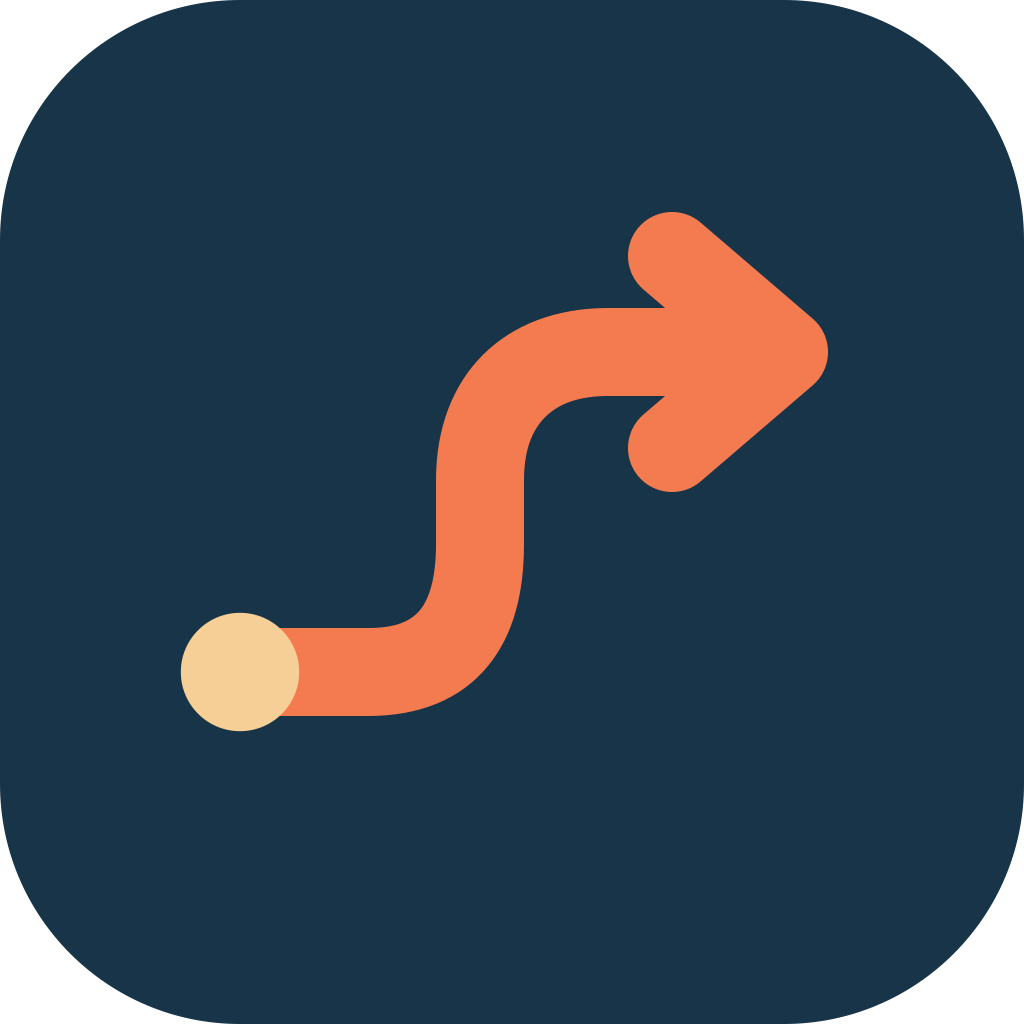
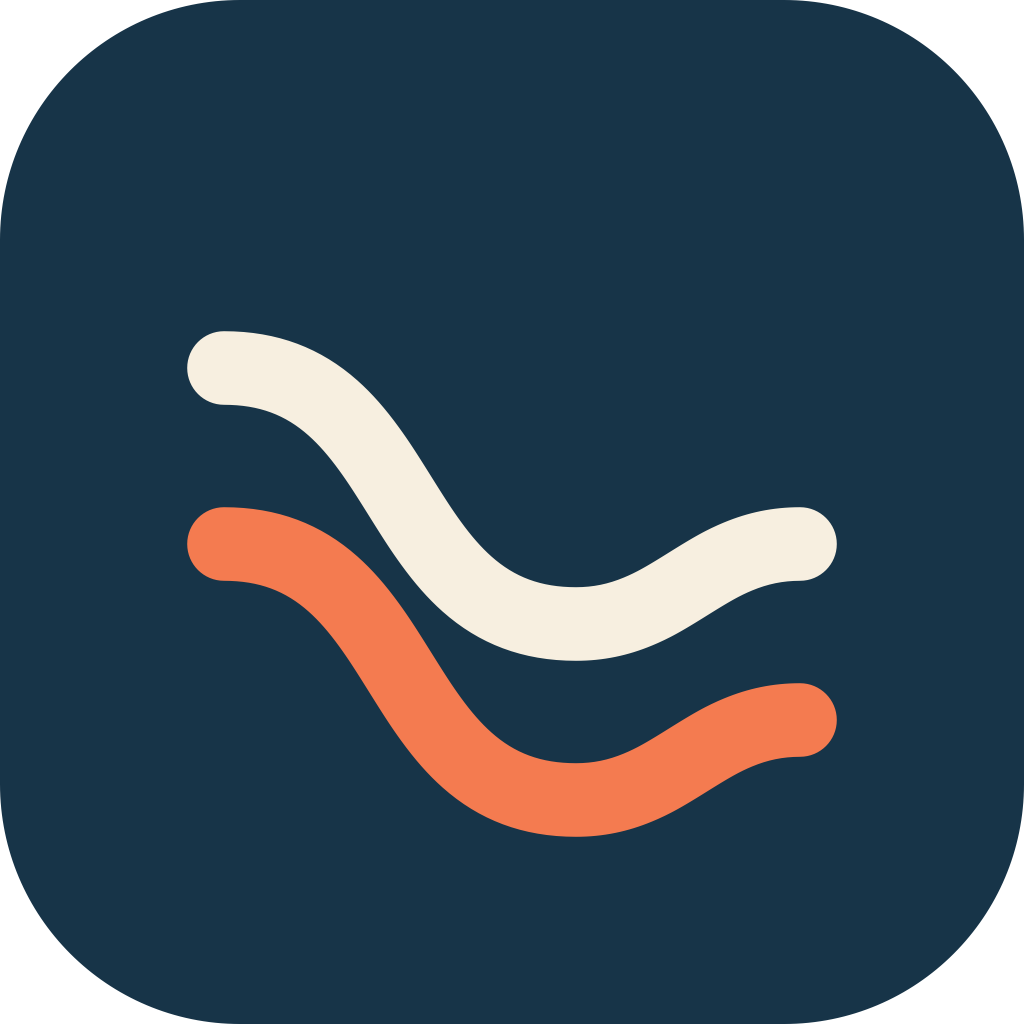
Update Site source

Changed region(s): [[0.1562, 0.1875, 0.8438, 0.8438]]

diff --git a/dist/index.html b/dist/index.html
@@ -1,9 +1,9 @@
 <!doctype html>
 <html lang="zh-CN">
-<head><meta charset="UTF-8"><meta name="viewport" content="width=device-width,initial-scale=1"><meta name="theme-color" content="#f4f3ef"><meta name="description" content="给流程图加上流动的箭头、光点和虚线，在浏览器里导出循环 GIF。"><title>Lineflow · 让连线流动起来</title><link rel="icon" type="image/svg+xml" href="./assets/lineflow-mark.svg"><link rel="stylesheet" href="./style.css"></head>
+<head><meta charset="UTF-8"><meta name="viewport" content="width=device-width,initial-scale=1"><meta name="theme-color" content="#f4f3ef"><meta name="description" content="给流程图加上流动的箭头、光点和虚线，在浏览器里导出循环 GIF。"><title>Lineflow · 让连线流动起来</title><link rel="icon" type="image/svg+xml" href="./assets/lineflow-mark-v2.svg"><link rel="stylesheet" href="./style.css"></head>
 <body>
 <header class="topbar">
-  <a class="brand" href="./" aria-label="Lineflow 首页"><img class="brand-icon" src="./assets/lineflow-mark.svg" width="34" height="34" alt="">lineflow<span class="brand-label">动线工作室</span></a>
+  <a class="brand" href="./" aria-label="Lineflow 首页"><img class="brand-icon" src="./assets/lineflow-mark-v2.svg" width="34" height="34" alt="">lineflow<span class="brand-label">动线工作室</span></a>
   <div class="project-meta"><input id="projectName" aria-label="项目名称" value="Agent 工作流"><span id="saveStatus"><i></i> 已保存在此浏览器</span></div>
   <div class="header-actions"><button id="saveProject" class="quiet">保存工程</button><button id="openProject" class="quiet">打开工程</button><button id="exportTop" class="primary">导出 GIF <span>↗</span></button></div>
 </header>
@@ -57,7 +57,7 @@
 </aside>
 </div>
 <input id="imageInput" type="file" accept="image/png,image/jpeg,image/webp,image/svg+xml" hidden><input id="projectInput" type="file" accept=".json,application/json" hidden>
-<dialog id="exportDialog"><div class="dialog-icon"><img src="./assets/lineflow-mark.svg" width="44" height="44" alt=""></div><h2 id="exportTitle">正在制作你的 GIF</h2><p id="exportDetail">准备画布…</p><progress id="exportProgress" max="100" value="0"></progress><p class="dialog-small">请保持页面打开。图片不会上传到服务器。</p><div id="exportResult" hidden><img id="exportPreview" alt="导出的 GIF 预览"><a id="downloadGif" class="primary" download="lineflow.gif">下载 GIF ↓</a></div><button id="cancelExport" class="full-button">取消</button></dialog>
+<dialog id="exportDialog"><div class="dialog-icon"><img src="./assets/lineflow-mark-v2.svg" width="44" height="44" alt=""></div><h2 id="exportTitle">正在制作你的 GIF</h2><p id="exportDetail">准备画布…</p><progress id="exportProgress" max="100" value="0"></progress><p class="dialog-small">请保持页面打开。图片不会上传到服务器。</p><div id="exportResult" hidden><img id="exportPreview" alt="导出的 GIF 预览"><a id="downloadGif" class="primary" download="lineflow.gif">下载 GIF ↓</a></div><button id="cancelExport" class="full-button">取消</button></dialog>
 <dialog id="replaceDialog"><h2>替换当前画布？</h2><p>当前路径会被清空。可先「保存工程」，或替换后用撤销恢复。</p><div class="dialog-actions"><button id="keepCanvas">取消</button><button id="confirmReplace" class="primary">替换画布</button></div></dialog>
 <div id="toast" role="status" aria-live="polite"></div>
 <script type="module" src="./app.js"></script>

diff --git a/dist/style.css b/dist/style.css
@@ -2,3 +2,5 @@
 @media(min-width:851px){body{overflow:hidden}.workspace{height:calc(100vh - 76px);min-height:0}.leftbar,.rightbar{overflow-y:auto;scrollbar-width:thin;scrollbar-color:#d5dcd5 transparent}.editor{min-height:0}.canvas-stage{height:auto;max-height:none;min-height:0}.leftbar{gap:22px}.paths-section{min-height:180px}.quick-guide{flex-shrink:0}.preview-bar{height:66px}.editor-footnote{margin-bottom:14px}.canvas-toolbar{height:59px}}
 
 .brand-icon{display:block;flex:none;padding:0;object-fit:contain}.dialog-icon img{display:block;width:44px;height:44px;border-radius:11px}
+
+.brand{font-weight:600;letter-spacing:-.8px}

diff --git a/brand/README.md b/brand/README.md
@@ -1,10 +1,10 @@
 # Lineflow 标志
 
-图形从浅金色圆点出发，沿暖橙色连线转弯，最后成为向右的箭头。圆点代表路径起点，箭头代表流动方向。深蓝色方形承接工具现有的界面配色。
+两条并行、略微错位的曲线表现连接线正在流动。浅米色与暖橙色形成前后层次；深蓝底色与工具界面一致。图形没有箭头，缩小为浏览器标签图标时仍能识别。
 
-- `../dist/assets/lineflow-mark.svg`：产品图标、网页页眉和 favicon 的矢量源文件。
-- `lineflow-logo.svg`：图标 + 英文字标 + 中文名称的横版矢量标志。
-- `lineflow-icon-1024.png`：1024 × 1024 透明背景 PNG，可用于头像、应用图标和社交资料。
-- `lineflow-wordmark-1080.png`：1080 × 256 透明背景 PNG，可用于横幅和介绍资料。
+- `../dist/assets/lineflow-mark.svg`：产品图标、页眉和 favicon 的矢量源文件。
+- `lineflow-logo.svg`：图标、英文字标与中文名称的横版矢量标志。
+- `lineflow-icon-1024.png`：1024 × 1024 透明背景 PNG。
+- `lineflow-wordmark-1080.png`：1080 × 256 透明背景 PNG。
 
-配色：深蓝 `#173448`，暖橙 `#F47B50`，浅金 `#F5CF95`。缩放时推荐优先使用 SVG。
+配色：深蓝 `#173448`，浅米 `#F7EFE0`，暖橙 `#F47B50`。放大或制作印刷物时推荐使用 SVG。
